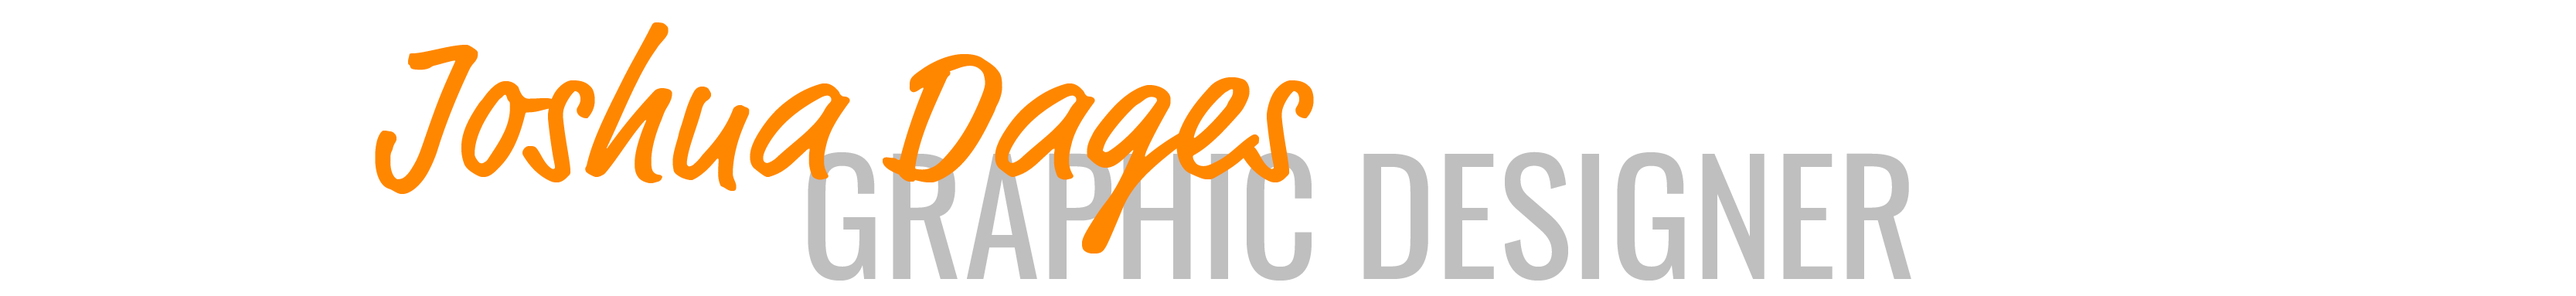
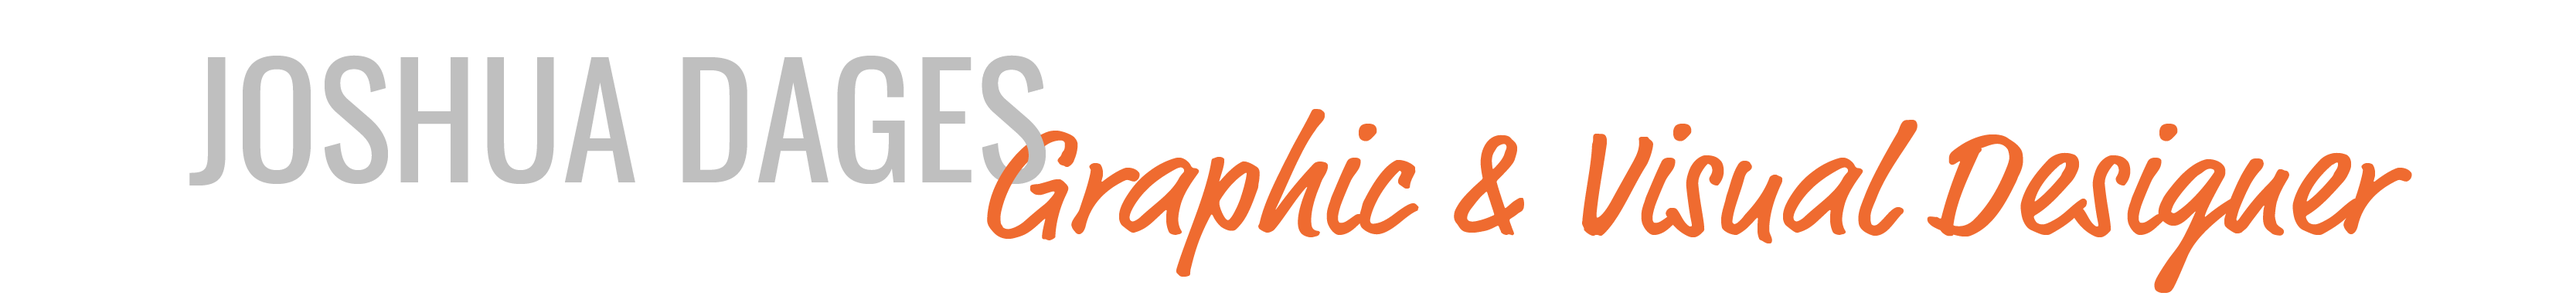
Page name changes, etc.
*skulls.html --> wallpaper.html
*fortune.html --> posters.html
*combined fortune and futura on one page
*added image to paris.html

Changed region(s): [[0.0624, 0.0862, 0.9361, 0.9765], [0.8113, 0.4308, 0.8425, 0.4595]]

diff --git a/index.html b/index.html
@@ -9,7 +9,7 @@
 	</head>
 	<body>
 	  <header>
-			<img src="images/Portfolio_Header.png" alt="Joshua Dages">
+			<img src="images/Portfolio_Header_v2.png" alt="Joshua Dages">
 	  </header>
 	  <nav>
 			<ul>
@@ -47,12 +47,12 @@
 						<div class="text">Photographic Composition</div>
 					</div>
 				</div>
-				<div class="container float third">
+				<!-- <div class="container float third">
 					<a href="alfresco.html"><img src="images/thumbnails/thumbnail_color_alfresco.png" alt="Cookbook Spread &ndash; Gourmet Alfresco" class="image"></a>
 					<div class="middle">
 						<div class="text">Cookbook Spread</div>
 					</div>
-				</div>
+				</div> -->
 				<!-- <div class="container float third">
 					<a href="desulfofaba.html"><img src="images/thumbnails/thumbnail_color_desulfofaba.png" alt="Album Cover &ndash; Desulfofaba" class="image"></a>
 					<div class="middle">
@@ -62,31 +62,31 @@
 				<div class="container float third">
 					<a href="paris.html"><img src="images/thumbnails/thumbnail_color_paris.png" alt="Photoshop &ndash; Arch Reimagined" class="image"></a>
 					<div class="middle">
-						<div class="text">Photographic Composition</div>
+						<div class="text">Architecture Reimagined</div>
 					</div>
 				</div>
 				<div class="container float third">
-					<a href="skulls.html"><img src="images/thumbnails/thumbnail_color_skull.png" alt="Wallpaper &ndash; Patterns" class="image"></a>
+					<a href="wallpaper.html"><img src="images/thumbnails/thumbnail_color_skull.png" alt="Wallpaper &ndash; Patterns" class="image"></a>
 					<div class="middle">
 						<div class="text">Wallpaper</div>
 					</div>
 				</div>
-				<div class="container float third">
+				<!-- <div class="container float third">
 					<a href="house.html"><img src="images/thumbnails/thumbnail_color_house.png" alt="Photoshop &ndash; House Redesign" class="image"></a>
 					<div class="middle">
 						<div class="text">Photographic Composition</div>
 					</div>
-				</div>
-				<div class="container float third">
+				</div> -->
+				<!-- <div class="container float third">
 					<a href="futura.html"><img src="images/thumbnails/thumbnail_color_futura.png" alt="Poster &ndash; Homage to a Typographer" class="image"></a>
 					<div class="middle">
 				    <div class="text">Poster</div>
 				  </div>
-				</div>
+				</div> -->
 				<div class="container float third">
-					<a href="fortune.html"><img src="images/thumbnails/thumbnail_color_fortune.png" alt="Poster &ndash; Fortune Cookie" class="image"></a>
+					<a href="posters.html"><img src="images/thumbnails/thumbnail_color_fortune.png" alt="Poster &ndash; Fortune Cookie" class="image"></a>
 					<div class="middle">
-						<div class="text">Poster</div>
+						<div class="text">Posters</div>
 					</div>
 				</div>
 				<div class="container float third">

diff --git a/projects.html b/projects.html
@@ -9,7 +9,7 @@
 	</head>
 	<body>
 	  <header>
-			<img src="images/Portfolio_Header.png" alt="Joshua Dages">
+			<img src="images/Portfolio_Header_v2.png" alt="Joshua Dages">
 	  </header>
 	  <nav>
 			<ul>
@@ -47,12 +47,12 @@
 						<div class="text">Photographic Composition</div>
 					</div>
 				</div>
-				<div class="container float third">
+				<!-- <div class="container float third">
 					<a href="alfresco.html"><img src="images/thumbnails/thumbnail_color_alfresco.png" alt="Cookbook Spread &ndash; Gourmet Alfresco" class="image"></a>
 					<div class="middle">
 						<div class="text">Cookbook Spread</div>
 					</div>
-				</div>
+				</div> -->
 				<!-- <div class="container float third">
 					<a href="desulfofaba.html"><img src="images/thumbnails/thumbnail_color_desulfofaba.png" alt="Album Cover &ndash; Desulfofaba" class="image"></a>
 					<div class="middle">
@@ -62,31 +62,31 @@
 				<div class="container float third">
 					<a href="paris.html"><img src="images/thumbnails/thumbnail_color_paris.png" alt="Photoshop &ndash; Arch Reimagined" class="image"></a>
 					<div class="middle">
-						<div class="text">Photographic Composition</div>
+						<div class="text">Architecture Reimagined</div>
 					</div>
 				</div>
 				<div class="container float third">
-					<a href="skulls.html"><img src="images/thumbnails/thumbnail_color_skull.png" alt="Wallpaper &ndash; Patterns" class="image"></a>
+					<a href="wallpaper.html"><img src="images/thumbnails/thumbnail_color_skull.png" alt="Wallpaper &ndash; Patterns" class="image"></a>
 					<div class="middle">
 						<div class="text">Wallpaper</div>
 					</div>
 				</div>
-				<div class="container float third">
+				<!-- <div class="container float third">
 					<a href="house.html"><img src="images/thumbnails/thumbnail_color_house.png" alt="Photoshop &ndash; House Redesign" class="image"></a>
 					<div class="middle">
 						<div class="text">Photographic Composition</div>
 					</div>
-				</div>
-				<div class="container float third">
+				</div> -->
+				<!-- <div class="container float third">
 					<a href="futura.html"><img src="images/thumbnails/thumbnail_color_futura.png" alt="Poster &ndash; Homage to a Typographer" class="image"></a>
 					<div class="middle">
 				    <div class="text">Poster</div>
 				  </div>
-				</div>
+				</div> -->
 				<div class="container float third">
-					<a href="fortune.html"><img src="images/thumbnails/thumbnail_color_fortune.png" alt="Poster &ndash; Fortune Cookie" class="image"></a>
+					<a href="posters.html"><img src="images/thumbnails/thumbnail_color_fortune.png" alt="Poster &ndash; Fortune Cookie" class="image"></a>
 					<div class="middle">
-						<div class="text">Poster</div>
+						<div class="text">Posters</div>
 					</div>
 				</div>
 				<div class="container float third">

diff --git a/paris.html b/paris.html
@@ -32,6 +32,7 @@
 			<div class="project-display-title">CHALLENGE</div>
 			<div class="project-display-text">For an assignment, we were asked to create an alternate version of a landmark using only the left half of an original image. I chose to reimagine the La Grande Arche de la Défense in Paris, France.</div>
 			<figure>
+				<img src="images//Display_Paris/Paris_Image_2.2.jpg" alt="Half Image &ndash; Architecture Reimagined">
 				<img src="images//Display_Paris/Paris_Image_2.1.jpg" alt="Half Image &ndash; Architecture Reimagined">
 			</figure>
 			<div class="project-display-text">In keeping with the architect&rsquo;s original vision of a humanitarian monument that counters the military victory arches elsewhere in Paris, I chose to create multiple half&ndash;arches, representing the change toward peace rather than war.<br><br>

diff --git a/posters.html b/posters.html
@@ -28,6 +28,12 @@
 			<figure>
 				<img src="images//Display_Fortune/Fortune_Cookie_Image_1.png" alt="Intro &ndash; Fortune Cookie">
 			</figure>
+			<div class="project-display-title">HOMAGE TO<br>A TYPOGRAPHER</div>
+			<div class="project-display-sub">Poster</div>
+			<div class="project-display-details">February 2018 &#124; Parsons &#124; Adobe Id</div>
+			<figure>
+				<img src="images//Display_Futura/Futura_Image_1.jpg" alt="Intro &ndash; Homage to a Typographer">
+			</figure>
     </main>
     <footer>
 			<p>© Joshua Dages 2019</p>

diff --git a/styles/global.css b/styles/global.css
@@ -59,7 +59,7 @@ header img {
 }
 
 nav {
-  padding: 20px 0 50px 0;
+  padding: 20px 0px 50px 0;
   font-family: 'open-sans', sans-serif;
   font-weight: 400;
   font-style: normal;
